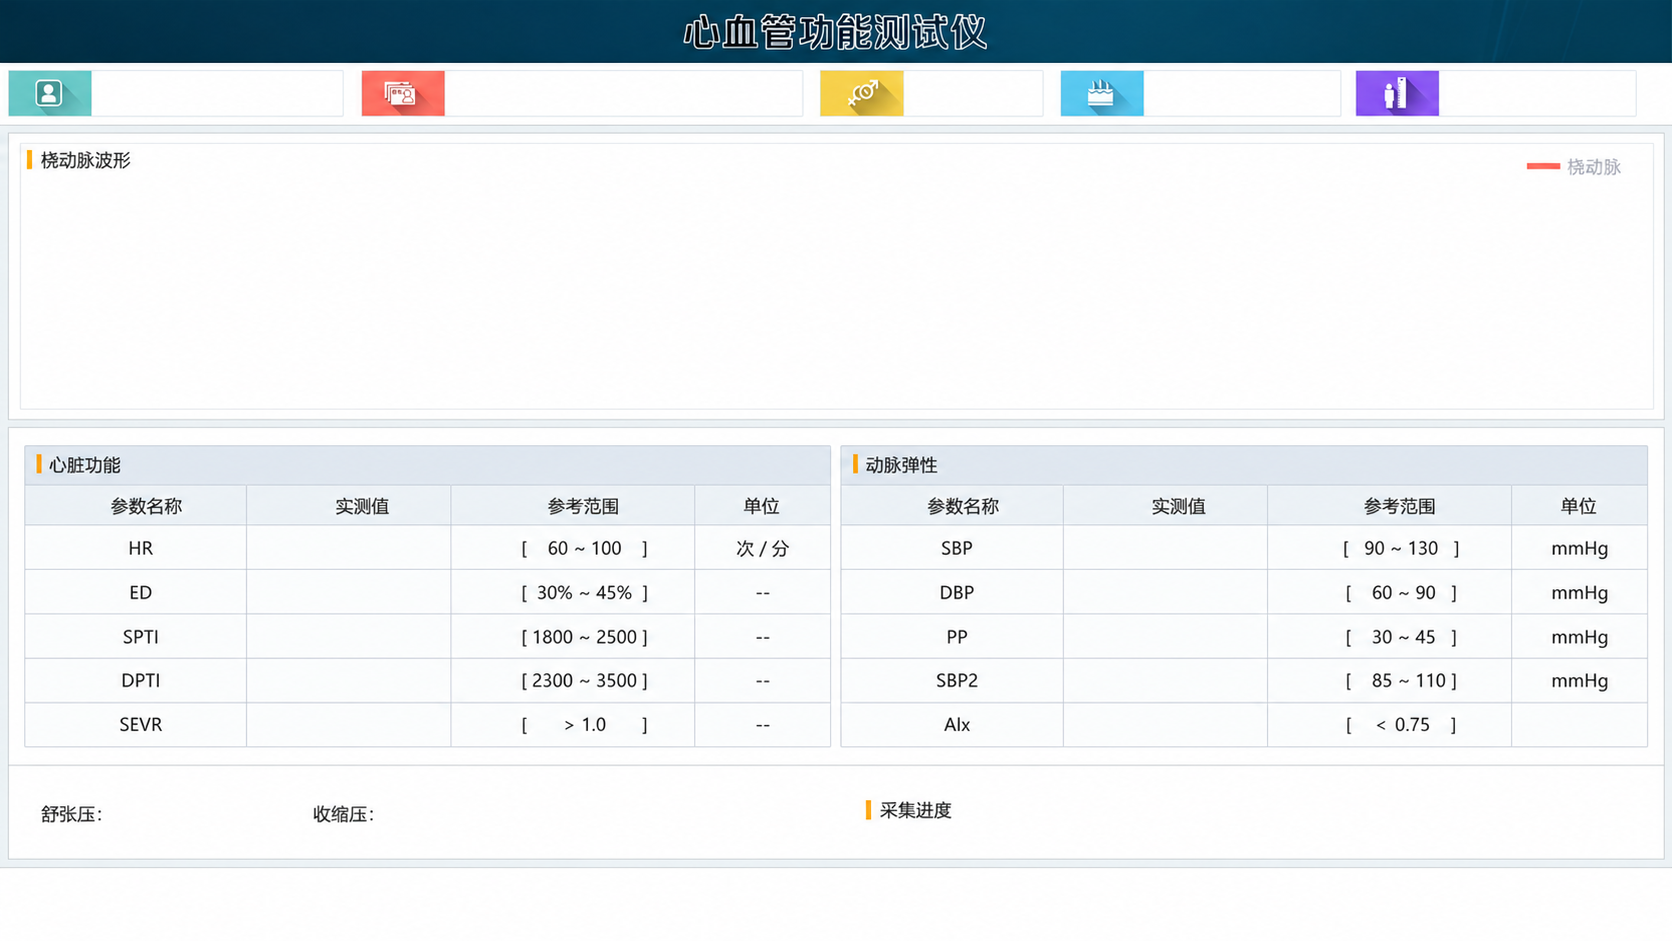
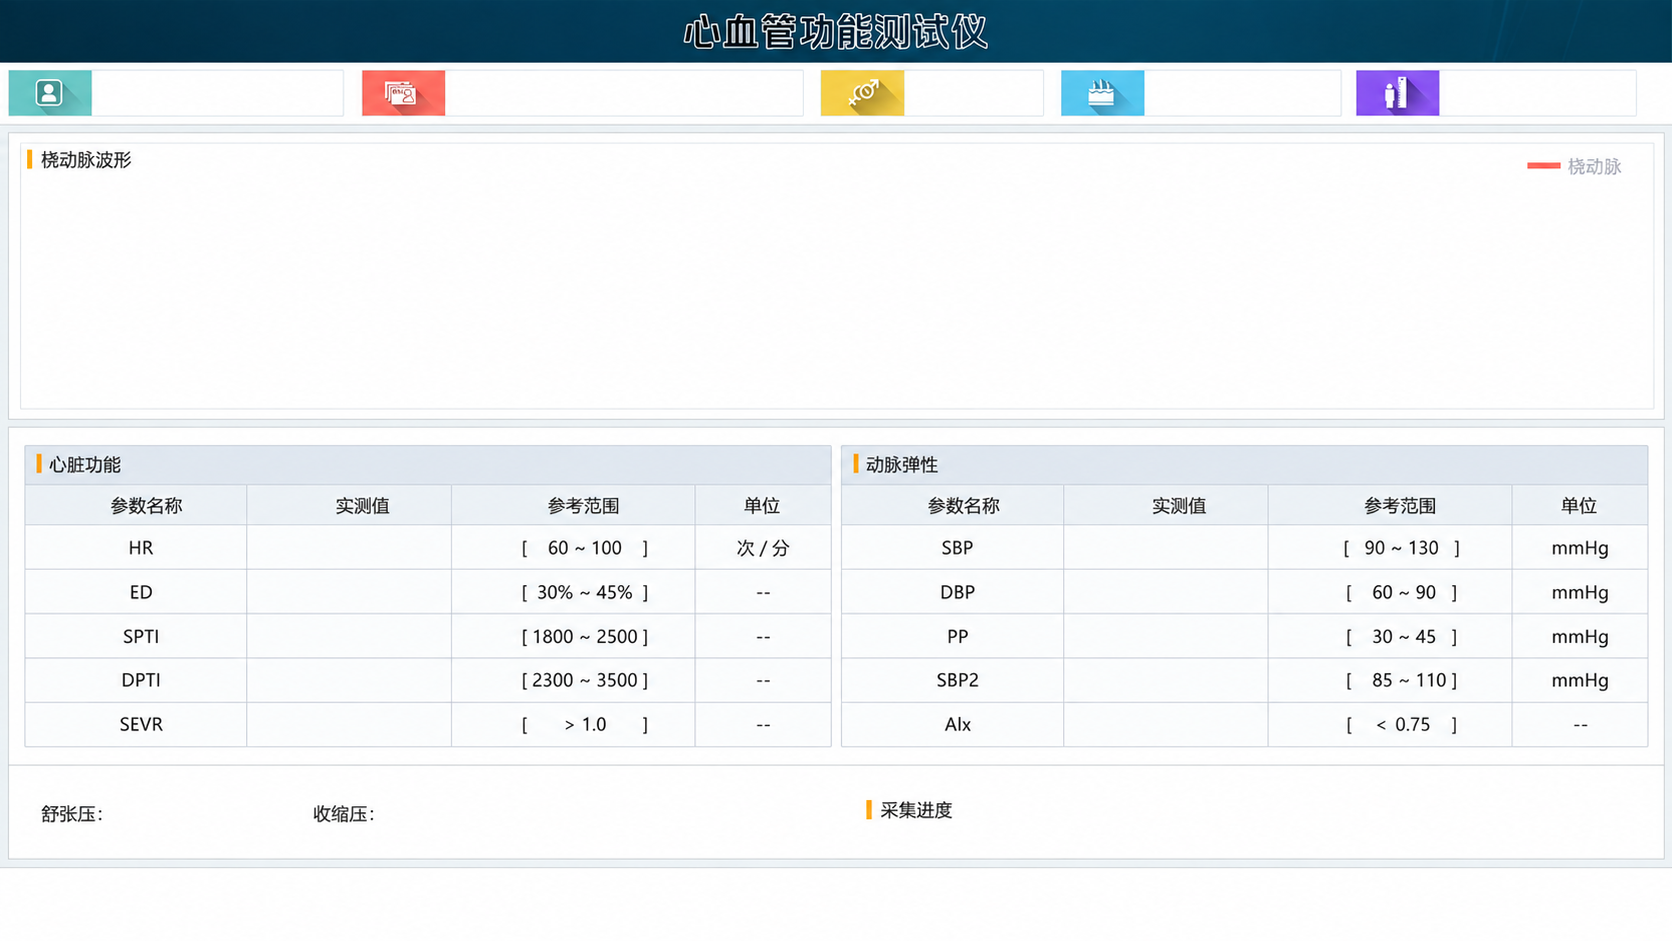
串口接收降频至500hz

diff --git a/Cardiovascular/Views/MeasurePage/MeasurePage.xaml b/Cardiovascular/Views/MeasurePage/MeasurePage.xaml
@@ -100,7 +100,7 @@
 
                 <Grid Grid.Column="0">
                     <Grid Margin="30,60,30,20" Visibility="Visible">
-                        <scottplot:WpfPlot x:Name="AiSeries" Panel.ZIndex="9999" />
+                        <scottplot:WpfPlot x:Name="AiSeries" Panel.ZIndex="9999" IsEnabled="False" />
                     </Grid>
                 </Grid>
                 <Grid Grid.Row="1" Margin="0,0,0,0">

diff --git a/Cardiovascular/Views/SystemPage/DebugSetPage.xaml.cs b/Cardiovascular/Views/SystemPage/DebugSetPage.xaml.cs
@@ -337,14 +337,14 @@ namespace CardioVascular.Views.SystemPage
                     {
                         if (dataList[i].dataValue == 1)//桡动脉
                         {
-                            for (int k = 0; k < 28; k++)//每次传输28个脉搏波数据
+                            for (int k = 0; k < 14; k++)//每次传输28个脉搏波数据
                             {
                                 RpRawDataNum++;//计算心率需要用到的变量
                                 SampleNum++;
                                 RpRawData.Add(dataList[i + 2 + k].dataValue);
                                 AIData.Add(dataList[i + 2 + k].dataValue);
                             }
-                            i += 29;
+                            i += 13;
 
                             if (AIData.Count % 4 == 0)
                             {

diff --git a/Cardiovascular/Views/MeasurePage/MeasurePage.xaml.cs b/Cardiovascular/Views/MeasurePage/MeasurePage.xaml.cs
@@ -887,7 +887,7 @@ namespace Cardio.Views.MeasurePage
                     {
                         if (dataList[i].dataValue == 1)   //桡动脉波形图
                         {
-                            for (int p = 0; p < 28; p++)
+                            for (int p = 0; p < 14; p++)
                             {
                                 iData[0] = dataList[i + 2 + p].dataValue;
 
@@ -907,7 +907,7 @@ namespace Cardio.Views.MeasurePage
                                     }));
                                 }
                             }
-                            i += 29;
+                            i += 15;
                         }
                     }
                     else if (dataList[i].frameType == CommandWord.REQ_PWV_INC_GAIN_Back)

diff --git a/Cardiovascular/SPCL/ExtractData.cs b/Cardiovascular/SPCL/ExtractData.cs
@@ -369,9 +369,9 @@ namespace Cardio.SPCL
                 else if (dataTemp[3] == 1)//桡动脉数据
                 {
                     //56字节数据区按2字节步长取，共28个点（与脉搏波分支一致），加前两条共30个条目
-                    for (int i = 0; i <= 27; i++)
+                    for (int i = 0; i <= 13; i++)
                     {
-                        data.dataValue = dataTemp[i * 2 + 5] * 256 + dataTemp[i * 2 + 6];
+                        data.dataValue = dataTemp[i * 4 + 5] * 256 + dataTemp[i * 4 + 6];
                         data.dataType = CommandWord.Data_Radial_Pulse;
                         usefullInfo.Add(data);
                     }

diff --git a/Cardiovascular/Algorithm/FeaturePoint.cs b/Cardiovascular/Algorithm/FeaturePoint.cs
@@ -54,7 +54,7 @@ namespace Cardio.Algorithm
         private const int SEGMENT_NUM = 7;
         private const int SCALE1 = 25;
         private const int SCALE2 = 50;
-        private const int SAMPLE_RATE = 1000; // 默认采样率
+        private const int SAMPLE_RATE = 500; // 默认采样率
 
         private int _getSbp;
         private int _getDbp;
